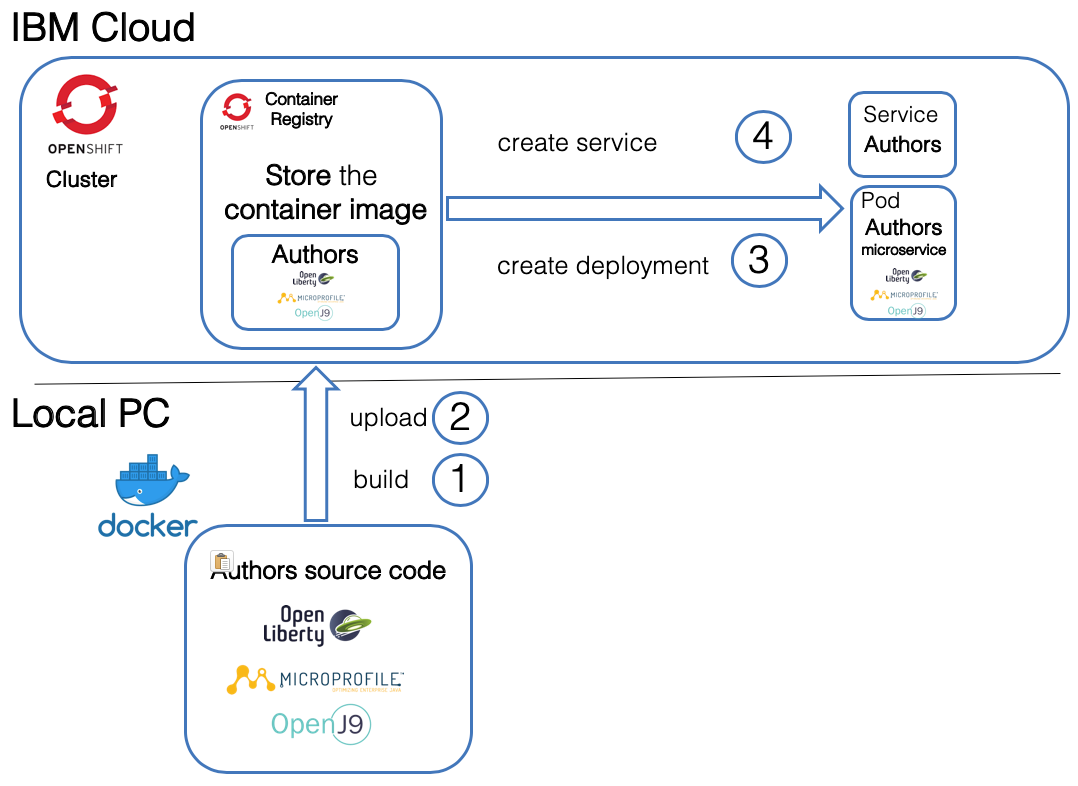
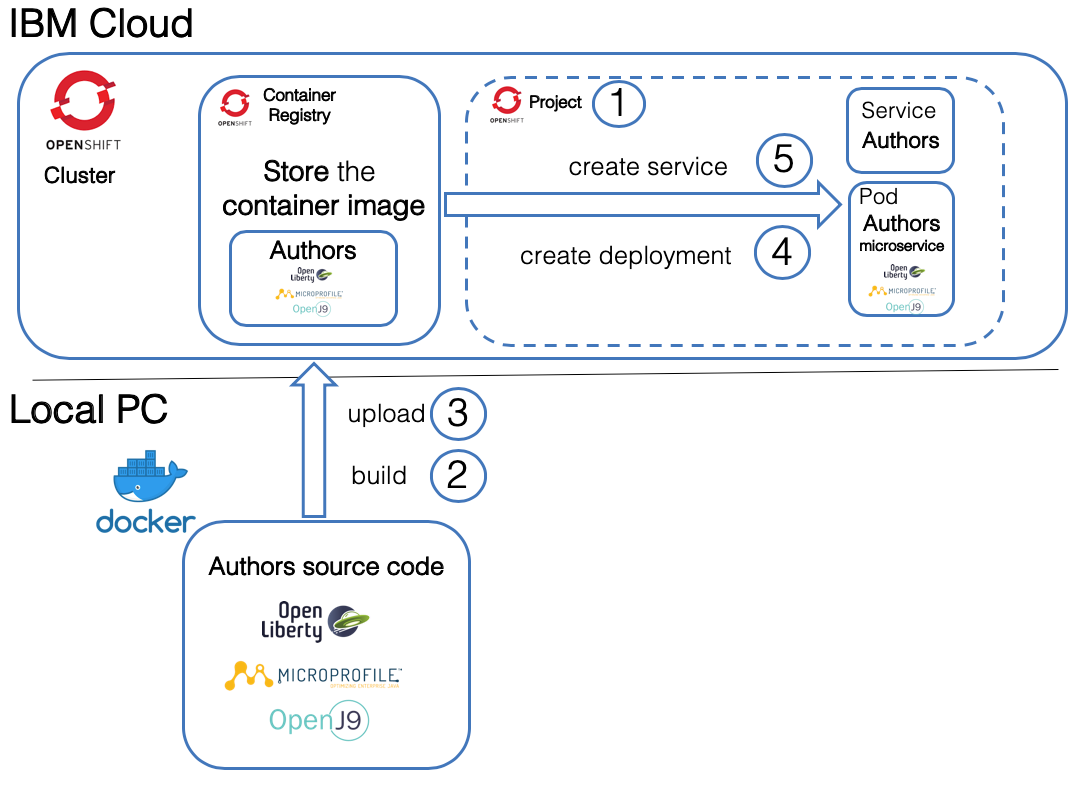
update w2 L4

Changed region(s): [[0.0, 0.0, 0.9796, 1.0], [0.2143, 0.7634, 0.3673, 0.9466], [0.9796, 0.0916, 1.0, 0.4275]]

diff --git a/2-deploying-to-openshift/documentation/4-openshift.md b/2-deploying-to-openshift/documentation/4-openshift.md
@@ -1,21 +1,23 @@
 # Lab 4 - Deploying to OpenShift
 
 
-We will work in the **OpenShift web console** and in the **OpenShift CLI**.
+We will work in the **OpenShift web console** and in the **OpenShift CLI**. The following image is an simplified overview of the topics of that lab. 
 
 ![overview](images/lab-4-overview.png)
 
-1. We will build the container image
-2. We will upload the container image to the internal **OpenShift container registry**
-3. We will define and apply a deployment configuration to create a Pod with our microservice
-4. We will define a service which route request to the Pod with our microservice
+1. We will create a OpenShift project
+2. We will build the container image
+3. We will upload the container image to the internal **OpenShift container registry**
+4. We will define and apply a deployment configuration to create a Pod with our microservice
+5. We will define a service which route request to the Pod with our microservice
 
 
 # 1. Build and save the container
 
 ## Step 1: Create a Open Shift project
 
-To work inside OpenShift we need a OpenShift project.
+To work inside OpenShift we need a OpenShift project. 
+A [project allows](https://docs.openshift.com/container-platform/3.7/dev_guide/projects.html#overview) a community of users to organize and manage their content in isolation from other communities.
 Let us create one.
 
 ```
